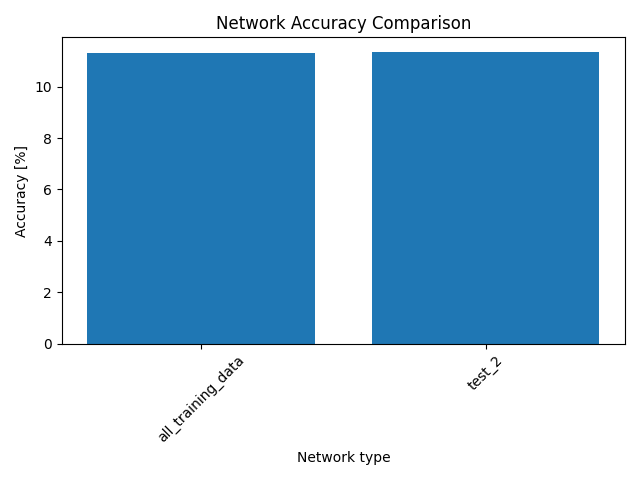
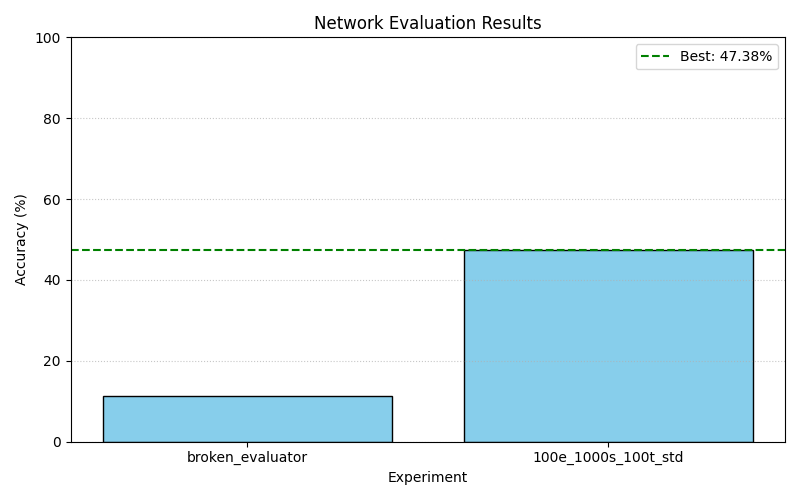
tweaked values

diff --git a/circuit/network/main.py b/circuit/network/main.py
@@ -1,4 +1,6 @@
-import random 
+import random, os
+os.environ["TF_GPU_ALLOCATOR"] = "cuda_malloc_async"  
+os.environ["XLA_PYTHON_CLIENT_PREALLOCATE"] = "false"   # don't grab all GPU memory at startup
 import jax.numpy as jnp
 import jax, math, functools, optax
 
@@ -32,9 +34,9 @@ OUTPUT_SIZE = 0 # output size (set from file)
 INPUT_SIZE = 784
 OUTPUT_NODES = []
 # Training input parameters
-EPOCH_COUNT = 100
-TOTAL_SIZE = 5000
-BATCH_SIZE = 500
+EPOCH_COUNT = 150
+TOTAL_SIZE = 10000
+BATCH_SIZE = 100
 
 # Training constants
 #ALPHA = 0.001
@@ -85,6 +87,9 @@ def inference(prob, left_nodes, right_nodes, values):
     global INPUT_SIZE, OUTPUT_NODES, OUTPUT_SIZE
     start_of_current_layer = INPUT_SIZE + 1
     
+    # Convert values from bool to float.32
+    values = values.astype(jnp.float16)
+
     # Layer loop
     for c in range(1, len(prob)):
         end_of_current_layer = start_of_current_layer + len(prob[c])
@@ -109,7 +114,7 @@ def inference(prob, left_nodes, right_nodes, values):
 @jax.jit
 def loss_function(prob, values, correct_answer, left_nodes, right_nodes):
     '''Run forward pass and return loss between outputs and correct_answer.'''
-    return optax.softmax_cross_entropy(inference(prob, left_nodes, right_nodes, values), correct_answer)
+    return optax.softmax_cross_entropy(inference(prob, left_nodes, right_nodes, values), correct_answer.astype(jnp.float16))
 
 def layer_normalize(prob):
     '''Normalize the probabilities to all 0 and a 1'''
@@ -126,7 +131,7 @@ def accuracy_function(prob, values, correct_answer, left_nodes, right_nodes):
     helper = jnp.array(inference(prob, left_nodes, right_nodes, values))
     predicted = (jnp.argmax(helper)).astype(jnp.int32)
     correct = jnp.argmax(correct_answer).astype(jnp.int32)
-    return (predicted == correct).astype(jnp.float32)
+    return (predicted == correct).astype(jnp.float16)
 
 @jax.jit
 def scalar_loss(prob, values, correct_answer, left_nodes, right_nodes):
@@ -174,9 +179,9 @@ def input_network(left_nodes, right_nodes, prob, aus):
 
 
         # Initialize layers
-        left_nodes.append(jnp.zeros((INPUT_SIZE+1), dtype=jnp.float32))
-        right_nodes.append(jnp.zeros((INPUT_SIZE+1), dtype=jnp.float32))
-        prob.append(jnp.zeros((INPUT_SIZE+1, 16), dtype=jnp.float32))
+        left_nodes.append(jnp.zeros((INPUT_SIZE+1), dtype=jnp.float16))
+        right_nodes.append(jnp.zeros((INPUT_SIZE+1), dtype=jnp.float16))
+        prob.append(jnp.zeros((INPUT_SIZE+1, 16), dtype=jnp.float16))
         for x in aus:
             left = []
             right = []
@@ -225,16 +230,20 @@ def train_network(prob, left_nodes, right_nodes):
     opt_state = optimizer.init(prob)
 
 
-    values_list = jnp.array(values_list, dtype=jnp.float32)
-    answers_list = jnp.array(answers_list, dtype=jnp.float32)
+    values_list = jnp.array(values_list, dtype=jnp.bool)
+    answers_list = jnp.array(answers_list, dtype=jnp.bool)
 
     # Start training routine
     for epoch in range (0, EPOCH_COUNT):
         # Forward pass
-        print("Epoch " + str(epoch+1))
-        
+    
+        idx = jax.random.permutation(jax.random.PRNGKey(epoch), TOTAL_SIZE)
+        shuffled_values = values_list[idx]
+        shuffled_answers = answers_list[idx]
+
+        loss_sum = 0
         for i in range (0, round(TOTAL_SIZE/BATCH_SIZE)):
-            loss_value = scalar_loss(prob, values_list[i], answers_list[i], left_nodes, right_nodes)
+            loss_sum  += scalar_loss(prob, values_list[i], answers_list[i], left_nodes, right_nodes)
 
             # Backward pass
             gradients = jax.grad(scalar_loss)(prob, values_list[i], answers_list[i], left_nodes, right_nodes)
@@ -242,6 +251,8 @@ def train_network(prob, left_nodes, right_nodes):
             # Update parameters
             updates, opt_state = optimizer.update(gradients, opt_state)
             prob = optax.apply_updates(prob, updates)
+
+        print("Epoch " + str(epoch+1) + " Loss: " + str(loss_sum * BATCH_SIZE / TOTAL_SIZE))
     return prob
 
 @jax.jit
@@ -250,8 +261,8 @@ def test_network(prob, left_nodes, right_nodes):
     values_list = []
     answers_list = []
     read_values("../data/testdata.txt", values_list, answers_list)
-    values = jnp.array(values_list, dtype=jnp.float32)
-    correct_answer = jnp.array(answers_list, dtype=jnp.float32)
+    values = jnp.array(values_list, dtype=jnp.float16)
+    correct_answer = jnp.array(answers_list, dtype=jnp.float16)
 
     batch_accuracy = jax.vmap(accuracy_function, in_axes=(None, 0, 0, None, None)) 
     acc = batch_accuracy(prob, values, correct_answer, left_nodes, right_nodes)

diff --git a/circuit/evaluator/evaluator_test.cpp b/circuit/evaluator/evaluator_test.cpp
@@ -7,17 +7,21 @@ struct AndNot_network {
     vector<bool> value; // bit values for calculation
     vector<int> C_1, C_2; // edges
     vector<int> result_nodes; // ordered-ids of the final network output nodes
+    vector<int> toposorted;
 
+    // Hey, I'm Linus Torvalds. I fixed this code, thank me later.
+    
     void init(const char* path) {
         // initialize current network
         ifstream graphinput(path, ios::binary | ios::in);
         N = read_int32_t(graphinput);
         value.resize(N+1); C_1.resize(N+1); C_2.resize(N+1);
+        toposorted.resize(N+1);
 
         for (int i = INPUT_NODES+1; i <= (int)N; i++) {
-            int id = read_int32_t(graphinput);
-            C_1[id] = read_int32_t(graphinput);
-            C_2[id] = read_int32_t(graphinput);
+            toposorted[i] = read_int32_t(graphinput);
+            C_1[i] = read_int32_t(graphinput);
+            C_2[i] = read_int32_t(graphinput);
         }
          
         O = read_int32_t(graphinput);
@@ -49,7 +53,7 @@ struct AndNot_network {
     void calculatenetwork() {
         // calculate all node values
         for (int i = INPUT_NODES+1; i <= N; i++) {
-            value[i] = getvalue(C_1[i]) & getvalue(C_2[i]);
+            value[toposorted[i]] = getvalue(C_1[i]) & getvalue(C_2[i]);
         }
     }
 
@@ -58,7 +62,7 @@ struct AndNot_network {
         float g = 0;
         float cnt = 0;
         int category = O/10; // 10 categories for MNIST
-        vector<pair<int, int>> category_ids(category);
+        vector<pair<int, int>> category_ids(10, make_pair(0,0));
         for (int counter = 0; counter < 10; counter++) {
             int on = 0;
             for (int k = 0; k < category; k++) {
@@ -68,6 +72,7 @@ struct AndNot_network {
             category_ids[counter] = {on, counter};
         }
         sort(category_ids.begin(), category_ids.end(), greater<pair<int, int>>());
+        
         int maximum = category_ids[0].first;
         int i = 0;
         while (category_ids[i].first == maximum && i < 10) {

diff --git a/circuit/exec/plot_data.py b/circuit/exec/plot_data.py
@@ -1,31 +1,37 @@
 import matplotlib.pyplot as plt
-import numpy as np
 
-def main():
-    labels = []
-    accuracy = []
+def plot_results():
+    # Load the scores
+    labels, scores = [], []
+    with open("plot_data.txt", "r") as f:
+        for line in f:
+            parts = line.strip().split()
+            if len(parts) == 2:
+                labels.append(parts[0])
+                scores.append(float(parts[1]))
 
-    with open("plot_data.txt") as file:
-        for line in file:
-            l, a = line.strip().split()
-            labels.append(l)
-            accuracy.append(float(a))
+    # Plot
+    plt.figure(figsize=(8,5))
+    plt.bar(labels, scores, color="skyblue", edgecolor="black")
 
-    labels = np.array(labels)
-    accuracy = np.array(accuracy)
+    # Fix y-axis from 0 to 100
+    plt.ylim(0, 100)
 
-    # Use index positions for plotting
-    x = np.arange(len(labels))
+    # Horizontal lines
+    if scores:
+        best = max(scores)
+        plt.axhline(best, color="green", linestyle="--", linewidth=1.5, label=f"Best: {best:.2f}%")
 
-    plt.bar(x, accuracy)
-    plt.xticks(x, labels, rotation=45)
-    plt.xlabel("Network type")
-    plt.ylabel("Accuracy [%]")
-    plt.title("Network Accuracy Comparison")
+    
+    plt.xlabel("Experiment")
+    plt.ylabel("Accuracy (%)")
+    plt.title("Network Evaluation Results")
+    plt.legend()
+    plt.grid(axis="y", linestyle=":", alpha=0.7)
+
     plt.tight_layout()
+    plt.savefig("plot.png")
 
-    plt.savefig("plot.png")  # always works
-    # plt.show()  # only if you have GUI
 
 if __name__ == "__main__":
-    main()
+    plot_results()

diff --git a/circuit/generator/convolution.py b/circuit/generator/convolution.py
@@ -4,7 +4,7 @@ INPUT_NODES = 784
 OUTPUT_NODES = 1000
 square = 28
 
-LAYERS = [INPUT_NODES, INPUT_NODES, 4000, 2000, OUTPUT_NODES]
+LAYERS = [INPUT_NODES, INPUT_NODES, 3000, 2000, OUTPUT_NODES]
 
 print(sum(LAYERS))
 first_layer_node = INPUT_NODES+1

diff --git a/circuit/exec/save_data.py b/circuit/exec/save_data.py
@@ -33,7 +33,7 @@ def run_test():
     print(f"Output: {output}")
     return float(output.strip())
 
-TEST_COUNT = 2
+TEST_COUNT = 3
 def main():
     label = sys.argv[1]
 
